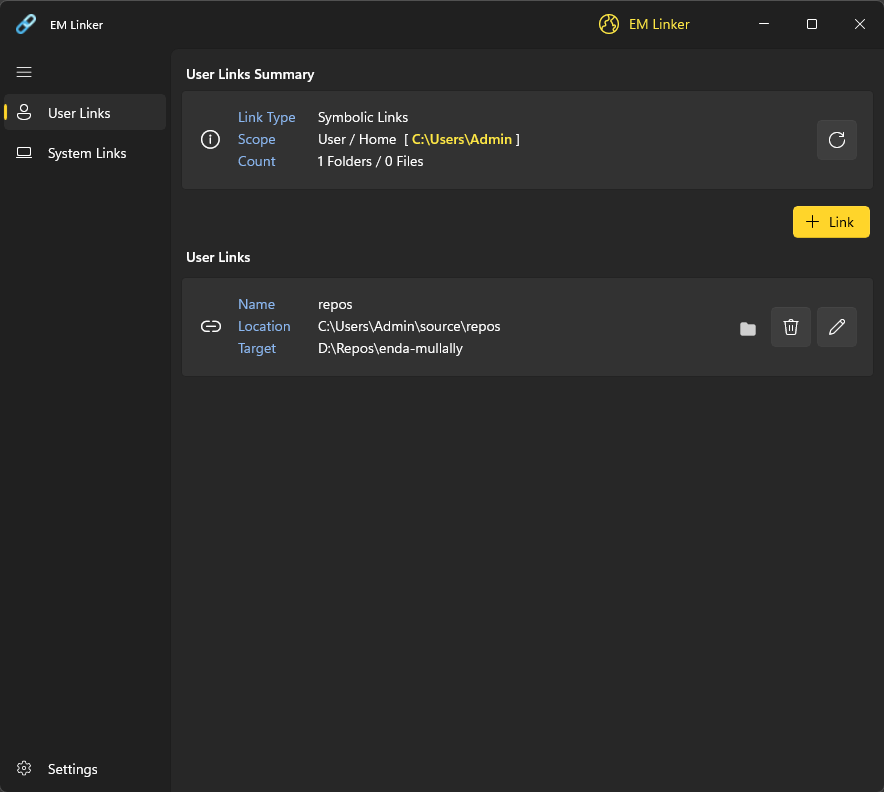
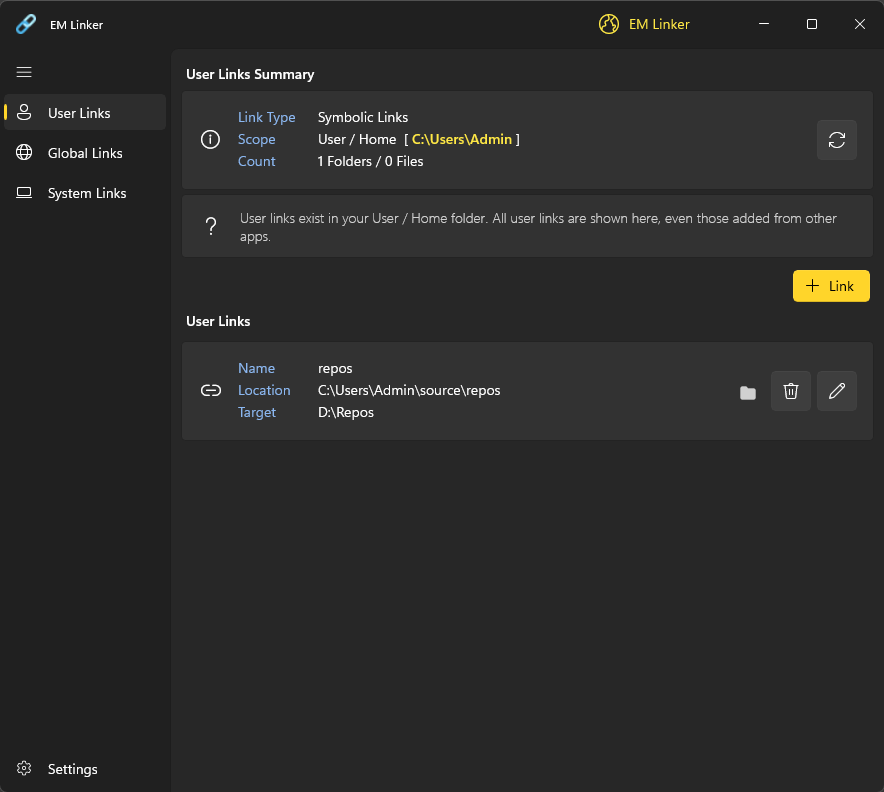
Updated store images and README for release candidate (build 7).

diff --git a/README.md b/README.md
@@ -20,7 +20,7 @@ EM Linker is a symbolic link or soft link Manager for Windows 11. It helps you m
 
 - **User Links** lets you manage symbolic links located in your Home folder.
 - **System Links** shows system links located in your Home folder. These links are read-only and shown for informational purposes only.
-- **Global Links** tracks system links created with EM Linker anywhere on your computer, including outside your Home folder (for example, at `C:\` or on another fixed drive). Creating links in protected locations may require administrator permission.
+- **Global Links** tracks system links created with EM Linker anywhere on your computer, including outside your Home folder (for example, at `C:\` or on another fixed drive).
 
 
 ## Screenshots
@@ -30,19 +30,23 @@ EM Linker is a symbolic link or soft link Manager for Windows 11. It helps you m
 </p>
 
 <p align="center">
-  <img align="center" style="border-radius: 8px; width: 100%; height: 100%;" src="docs/assets/Store_02_System_Links.png">
+  <img align="center" style="border-radius: 8px; width: 100%; height: 100%;" src="docs/assets/Store_02_Global_Links.png">
 </p>
 
 <p align="center">
-  <img align="center" style="border-radius: 8px; width: 100%; height: 100%;" src="docs/assets/Store_03_Add_Link.png">
+  <img align="center" style="border-radius: 8px; width: 100%; height: 100%;" src="docs/assets/Store_03_System_Links.png">
 </p>
 
 <p align="center">
-  <img align="center" style="border-radius: 8px; width: 100%; height: 100%;" src="docs/assets/Store_04_Settings_Dark.png">
+  <img align="center" style="border-radius: 8px; width: 100%; height: 100%;" src="docs/assets/Store_04_Add_Link.png">
 </p>
 
 <p align="center">
-  <img align="center" style="border-radius: 8px; width: 100%; height: 100%;" src="docs/assets/Store_05_Settings_Light.png">
+  <img align="center" style="border-radius: 8px; width: 100%; height: 100%;" src="docs/assets/Store_05_Settings_Dark.png">
+</p>
+
+<p align="center">
+  <img align="center" style="border-radius: 8px; width: 100%; height: 100%;" src="docs/assets/Store_06_Settings_Light.png">
 </p>
 
 <br />
